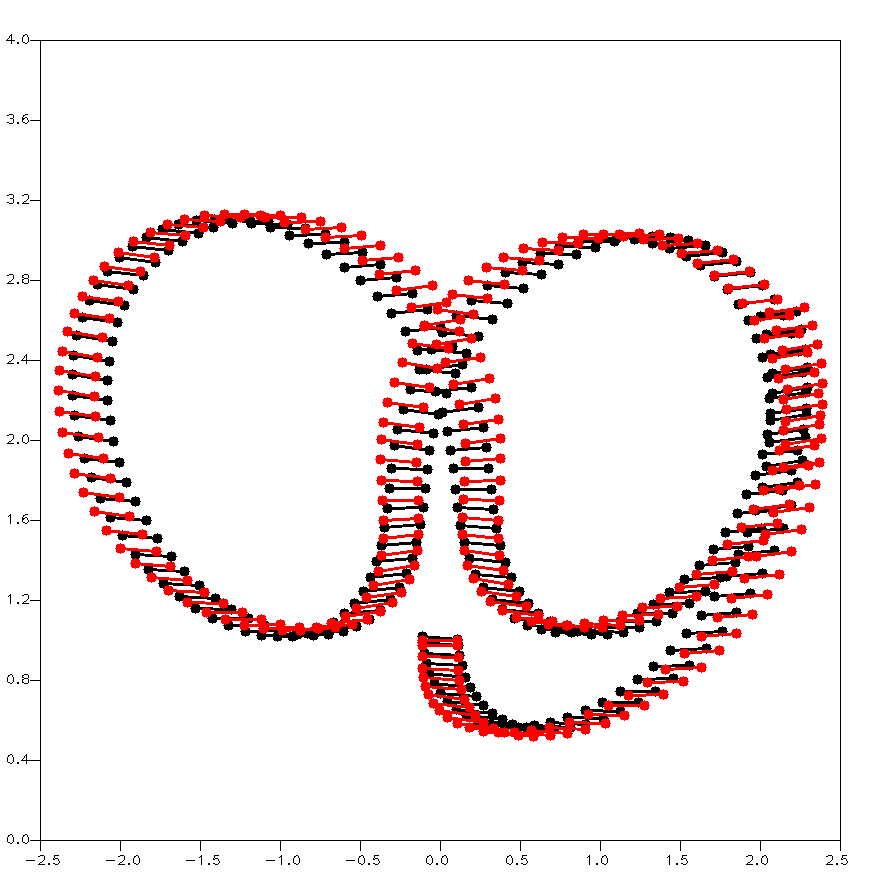
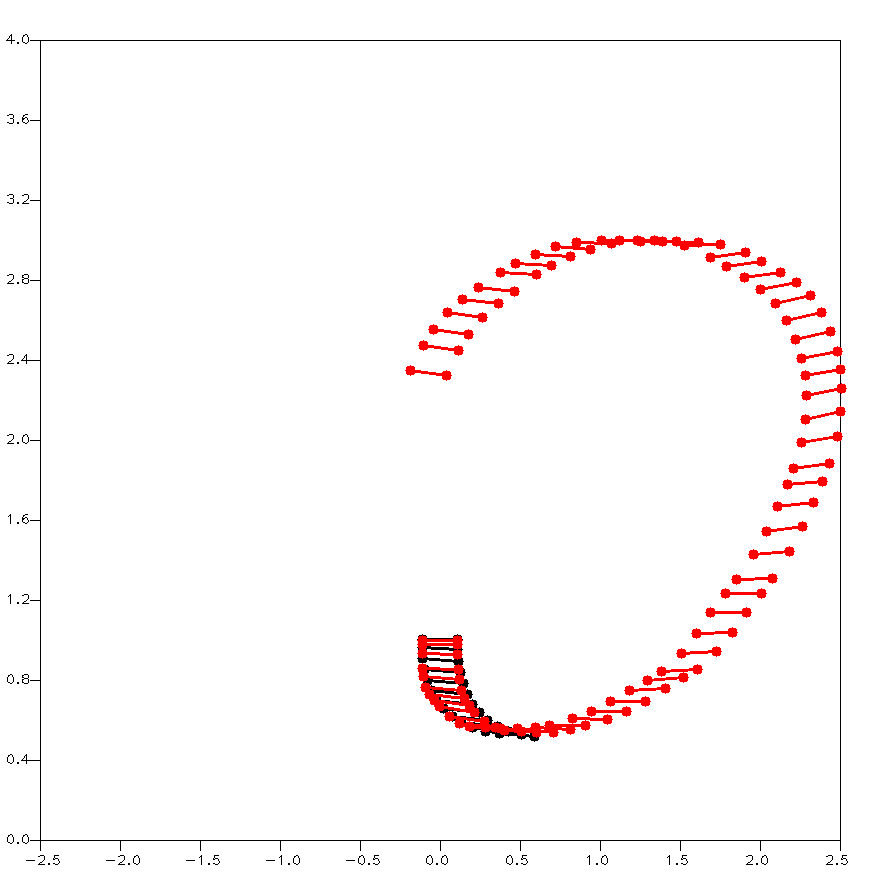
ODE @ 50 Hz | fixed accelerometer

Changed region(s): [[0.0614, 0.2148, 0.9818, 0.8591]]

diff --git a/Crazyflie_Simulation/solid/pybullet/enginenodes.py b/Crazyflie_Simulation/solid/pybullet/enginenodes.py
@@ -50,6 +50,7 @@ class AttitudePID(EngineNode):
     def initialize(self):
         # rate / 2 -> so error * 2 and dt * 2 -> so kp / 2 and ki / 4 and kd = kd
         self.attitude_pid_yaw = PID(kp=6, ki=1, kd=0.35, rate=self.rate)
+        # Constants calculated from Crazyflie: kp = kp, ki = ki * new_rate / old_rate, kd = kd * old_rate / new_rate
         self.attitude_pid_pitch = PID(kp=6, ki=0.6, kd=0, rate=self.rate) # 6, 3, 0 or 48, 12, 0
         self.attitude_pid_roll = PID(kp=12, ki=12, kd=0, rate=self.rate)  # 6, 3, 0 or 12, 12, 0
 
@@ -118,6 +119,7 @@ class AttitudeRatePID(EngineNode):
 
     def initialize(self):
         self.attitude_rate_pid_yaw = PID(kp=120, ki=16.7, kd=0, rate=self.rate)
+        # Constants calculated from Crazyflie: kp = kp, ki = ki * new_rate / old_rate, kd = kd * old_rate / new_rate
         self.attitude_rate_pid_pitch = PID(kp=250, ki=100, kd=12.5, rate=self.rate)  # 250, 500, 2.5
         self.attitude_rate_pid_roll = PID(kp=250, ki=500, kd=2.5, rate=self.rate)
 
@@ -429,10 +431,11 @@ class AccelerometerSensor(EngineNode):
         spec.config.name = name
         spec.config.rate = rate
         spec.config.process = process
-        spec.config.inputs = ["tick", "input_velocity"]
+        spec.config.inputs = ["tick", "input_velocity", "orientation"]
         spec.config.outputs = ["obs"]
 
     def initialize(self):
+        self.gravity = 0.027 * 9.81
         pass
 
     @register.states()
@@ -440,15 +443,25 @@ class AccelerometerSensor(EngineNode):
         """This link sensor is stateless, so nothing happens here."""
         pass
 
-    @register.inputs(tick=UInt64, input_velocity=Float32MultiArray)
+    @register.inputs(tick=UInt64, input_velocity=Float32MultiArray, orientation=Float32MultiArray)
     @register.outputs(obs=Float32MultiArray)
-    def callback(self, t_n: float, input_velocity: Msg, tick: Optional[Msg] = None):
+    def callback(self, t_n: float, input_velocity: Msg, orientation: Msg, tick: Optional[Msg] = None):
         """Produces a link sensor measurement called `obs`.
 
         The measurement is published at the specified rate * real_time_factor.
 
         Input `tick` ensures that this node is I/O synchronized with the simulator."""
         # get last and current velocity
+        orientation_euler = pybullet.getEulerFromQuaternion(orientation.msgs[-1].data)
+        roll = orientation_euler[0]
+        pitch = -orientation_euler[1]
+
+        # roll, pitch, yaw = np.pi / 2, np.pi / 4, 0
+        rotation_matrix = np.array([[np.cos(-pitch), 0, -np.sin(-pitch)],
+                                    [-np.sin(-roll) * np.sin(-pitch), np.cos(-roll), -np.sin(-roll) * np.cos(-pitch)],
+                                    [np.cos(-roll) * np.sin(-pitch), np.sin(-roll), np.cos(-roll) * np.cos(-pitch)]])
+        gravity_vector = rotation_matrix.dot(self.gravity)
+
         last = np.array(input_velocity.msgs[0].data)
         # print("last", last) # debug
         try:
@@ -458,10 +471,14 @@ class AccelerometerSensor(EngineNode):
         # print("current", current) # debug
 
         # calculate acceleration dy/dt
-        # todo: This acceleration is not exactly the same as calculated from the applied force in external_force
+
         diff = (current - last) / (1 / self.rate)
-        # print("acceleration", diff)       # debug
-        # print("=" * 50)                   # debug
+        acceleration = diff + gravity_vector
+
+        # print(f"Gravity vector     = {np.round(gravity_vector, 4)}")
+        # print(f"Total acceleration = {np.round(acceleration, 4)}")
+        # print(f"Differentiated     = {np.round(diff, 4)}")
+        # print("=" * 50)
         return dict(obs=Float32MultiArray(data=diff))
 
 

diff --git a/Crazyflie_Simulation/solid/objects.py b/Crazyflie_Simulation/solid/objects.py
@@ -150,7 +150,7 @@ class Crazyflie(Object):
         )
 
         # Desired attitude
-        spec.actuators.commanded_attitude.rate = 100
+        spec.actuators.commanded_attitude.rate = rate
         spec.actuators.commanded_attitude.space_converter = SpaceConverter.make(
             "Space_Float32MultiArray",
             dtype="float32",
@@ -220,8 +220,8 @@ class Crazyflie(Object):
         spec.PybulletEngine.states.lateral_friction = EngineState.make("PbDynamics", parameter="lateralFriction")
 
         # Create PID engine nodes
-        attitude_pid = EngineNode.make("AttitudePID", "attitude_pid", rate=100, n=3)
-        attitude_rate_pid = EngineNode.make("AttitudeRatePID", "attitude_rate_pid", rate=100, n=3)
+        attitude_pid = EngineNode.make("AttitudePID", "attitude_pid", rate=spec.sensors.pos.rate, n=3)
+        attitude_rate_pid = EngineNode.make("AttitudeRatePID", "attitude_rate_pid", rate=spec.sensors.pos.rate, n=3)
         power_distribution = EngineNode.make("PowerDistribution", "power_distribution", rate=spec.sensors.pos.rate, n=3)
         # Create actuator engine nodes
         # Rate=None, but we will connect it to an actuator (thus will use the rate set in the agnostic specification)
@@ -263,6 +263,7 @@ class Crazyflie(Object):
         graph.connect(source=accelerometer.outputs.obs, target=state_estimator.inputs.acceleration)
         graph.connect(source=gyroscope.outputs.obs, target=state_estimator.inputs.angular_velocity)
         graph.connect(source=orientation.outputs.obs, target=state_estimator.inputs.orientation)
+        graph.connect(source=orientation.outputs.obs, target=accelerometer.inputs.orientation)
 
         # Choose between pybullet and state estimator orientation for the attitude PID
         # graph.connect(source=state_estimator.outputs.orientation_state_estimator, target=attitude_pid.inputs.current_attitude)

diff --git a/examples/autorun_crazyflie_constant_height_updated.py b/examples/autorun_crazyflie_constant_height_updated.py
@@ -22,14 +22,14 @@ LOG_DIR = os.path.dirname(
 
 
 # todo: check the windows and rates
-def runEagerX(engine_mode, save_render_image, saveToPreviousRender, renderColor, axisToPlot, run_id):
+def runEagerX(engine_mode, save_render_image, saveToPreviousRender, renderColor, axisToPlot, run_id, rate):
     eagerx.initialize("eagerx_core", anonymous=True, log_level=eagerx.log.WARN)
 
     # Define rate
     real_reset = False
-    rate = 220  # 220?
-    safe_rate = 220
-    max_steps = 3600
+    rate = rate  # 220?
+    safe_rate = rate
+    max_steps = int(1500 * rate / 220)
 
     # Initialize empty graph
     graph = Graph.create()
@@ -208,13 +208,15 @@ if __name__ == "__main__":
               saveToPreviousRender=False,
               renderColor="black",
               axisToPlot=axisToPlot,
-              run_id=1)
+              run_id=1,
+              rate=220)
 
     runEagerX("Ode",  # second run
               save_render_image=True,
               saveToPreviousRender=True,
               renderColor="red",
               axisToPlot=axisToPlot,
-              run_id=2)
+              run_id=2,
+              rate=50)
 
     log.save_to_csv()
